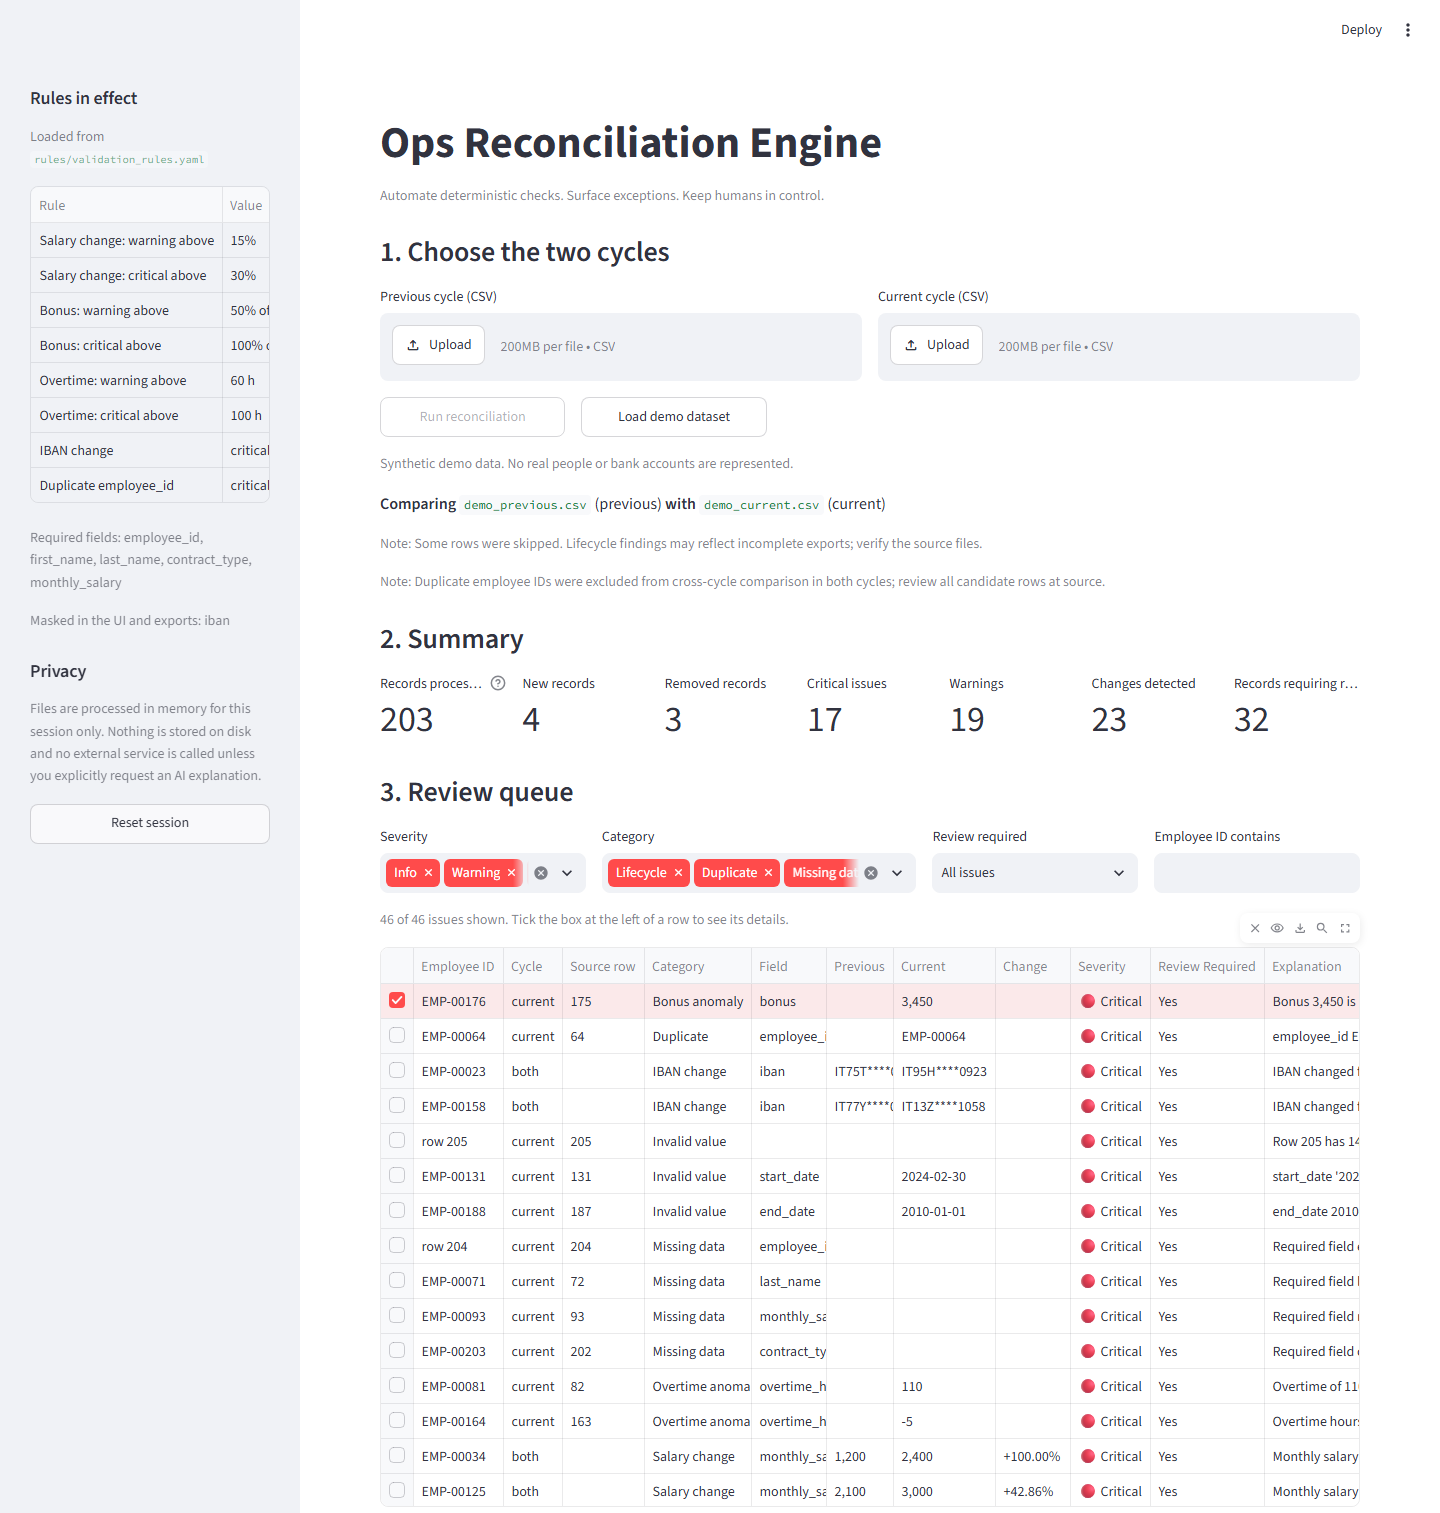
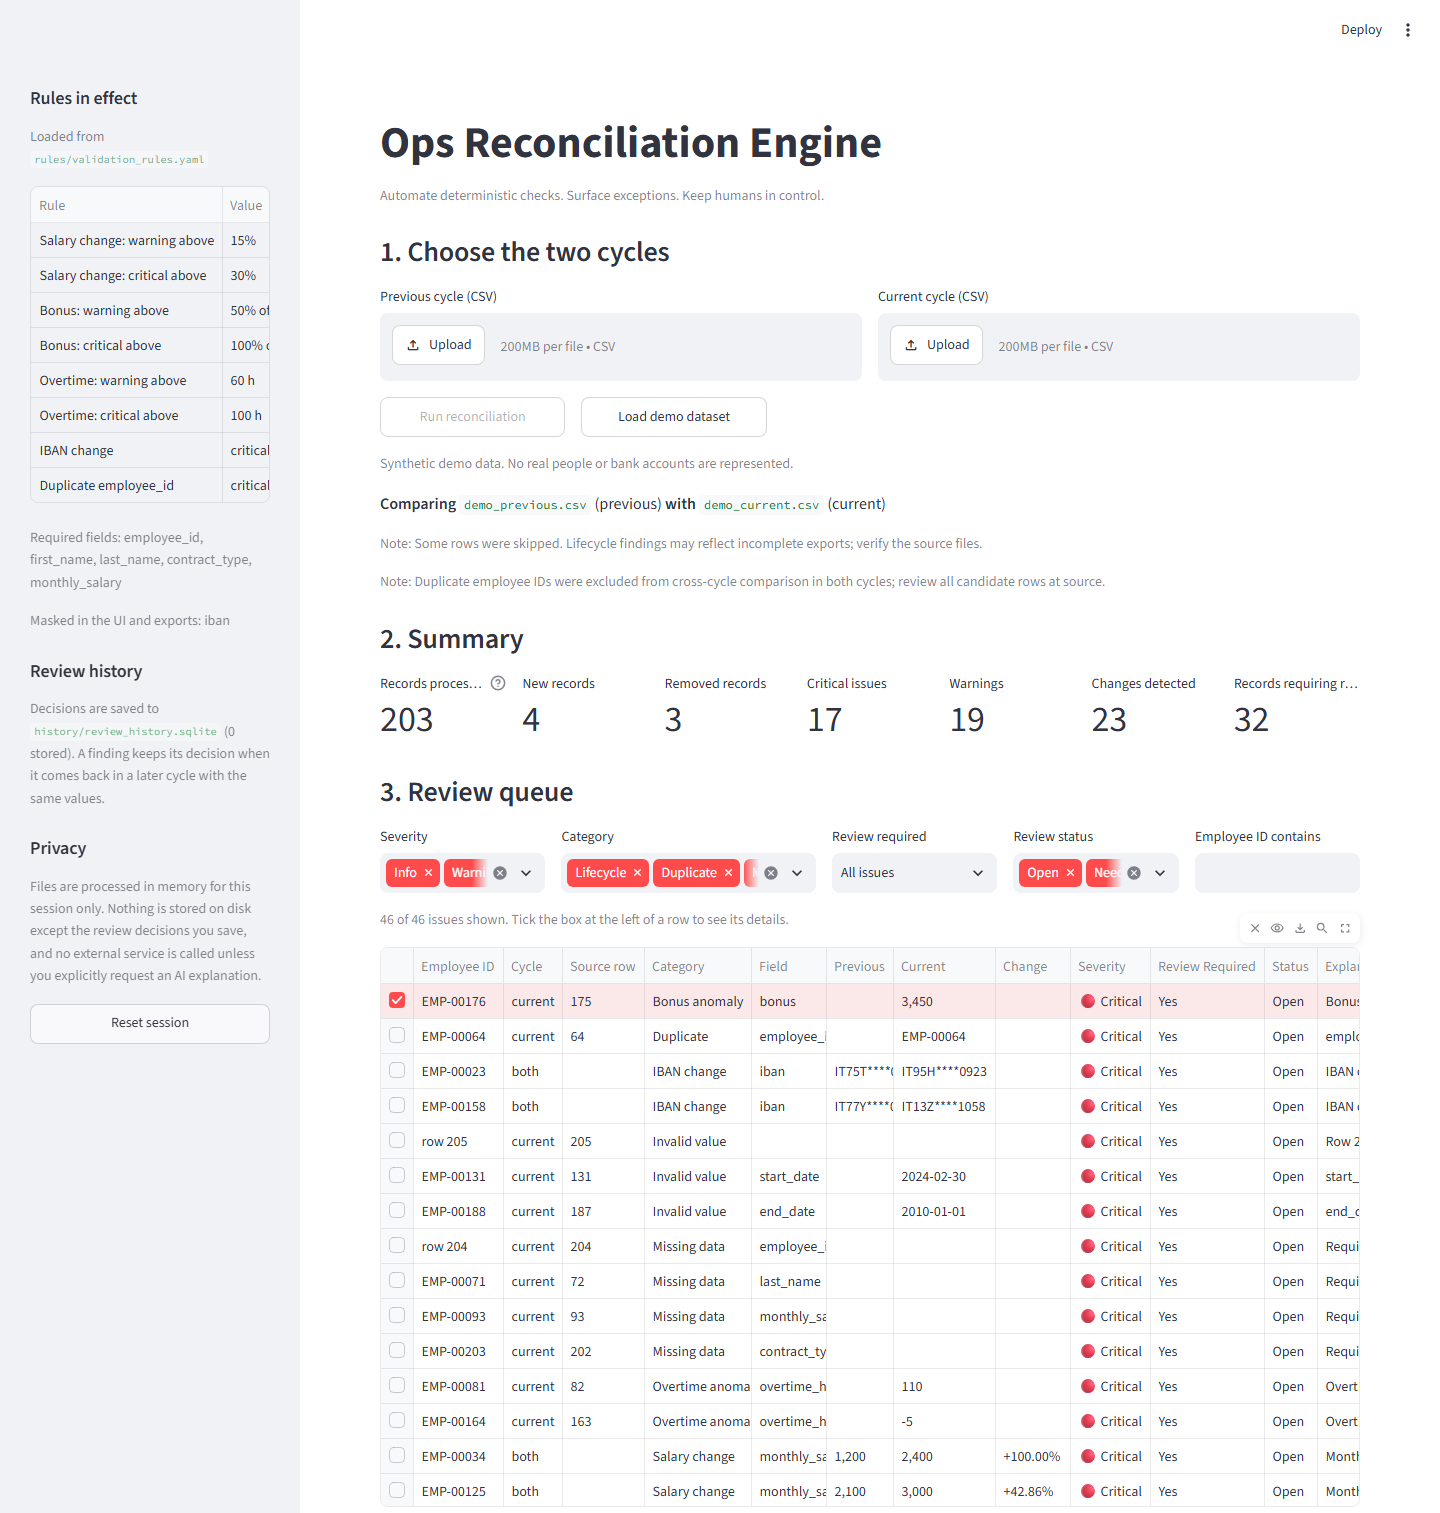
chore: render source rows as text; refresh screenshots with the decision form

diff --git a/tests/test_app.py b/tests/test_app.py
@@ -67,8 +67,8 @@ def test_demo_dataset_fills_summary_table_and_exports():
         "Severity", "Review Required", "Status", "Explanation",
     ]
     assert len(review_table) == 46
-    assert set(review_table["Status"]) == {"Open"}  # fresh checkout: no decisions stored yet
-    assert str(review_table["Source row"].dtype) == "Int64"
+    assert set(review_table["Status"]) == {"Open"}  # isolated history: no decisions stored
+    assert "" in set(review_table["Source row"]) and "175" in set(review_table["Source row"])
     assert set(review_table["Severity"]) == {"🔴 Critical", "🟠 Warning", "🔵 Info"}
     assert "Download Full Report" in [button.label for button in at.get("download_button")]
     assert "Download Review Queue" in [button.label for button in at.get("download_button")]
@@ -221,11 +221,10 @@ def test_issues_table_formats_values_for_operators():
 
     table = app_module.issues_table([issue])
 
-    row = table.iloc[0].to_dict()
-    assert pd.isna(row.pop("Source row"))  # cross-cycle finding: no single source line
-    assert row == {
+    assert table.iloc[0].to_dict() == {
         "Employee ID": "EMP-00125",
         "Cycle": "both",
+        "Source row": "",  # cross-cycle finding: no single source line
         "Category": "Salary change",
         "Field": "monthly_salary",
         "Previous": "2,100",

diff --git a/app.py b/app.py
@@ -311,8 +311,8 @@ def issues_table(issues: list[Issue]) -> pd.DataFrame:
         {
             "Employee ID": [issue.record_label for issue in issues],
             "Cycle": [issue.dataset for issue in issues],
-            # Nullable integers render as blanks and keep the column numeric for Arrow.
-            "Source row": pd.array([issue.row_number for issue in issues], dtype="Int64"),
+            # Text on purpose: a mixed int/blank column breaks Arrow and nullable ints show "None".
+            "Source row": ["" if issue.row_number is None else str(issue.row_number) for issue in issues],
             "Category": [issue.category.label for issue in issues],
             "Field": [issue.field or "" for issue in issues],
             "Previous": [format_value(issue.previous_value) for issue in issues],
